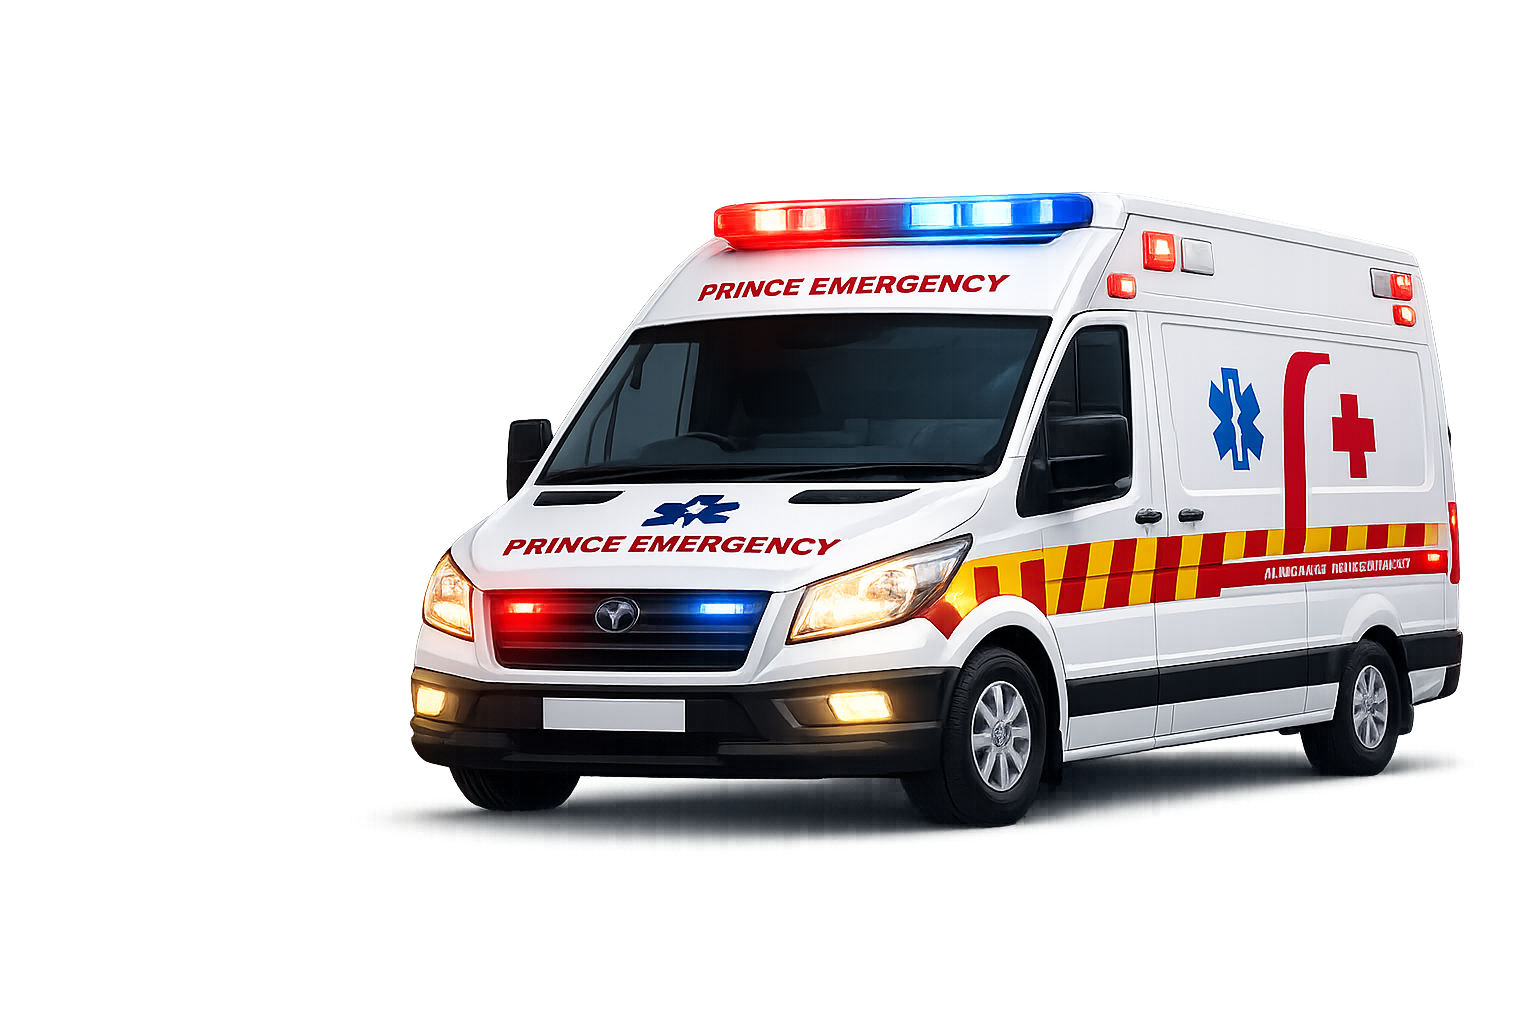
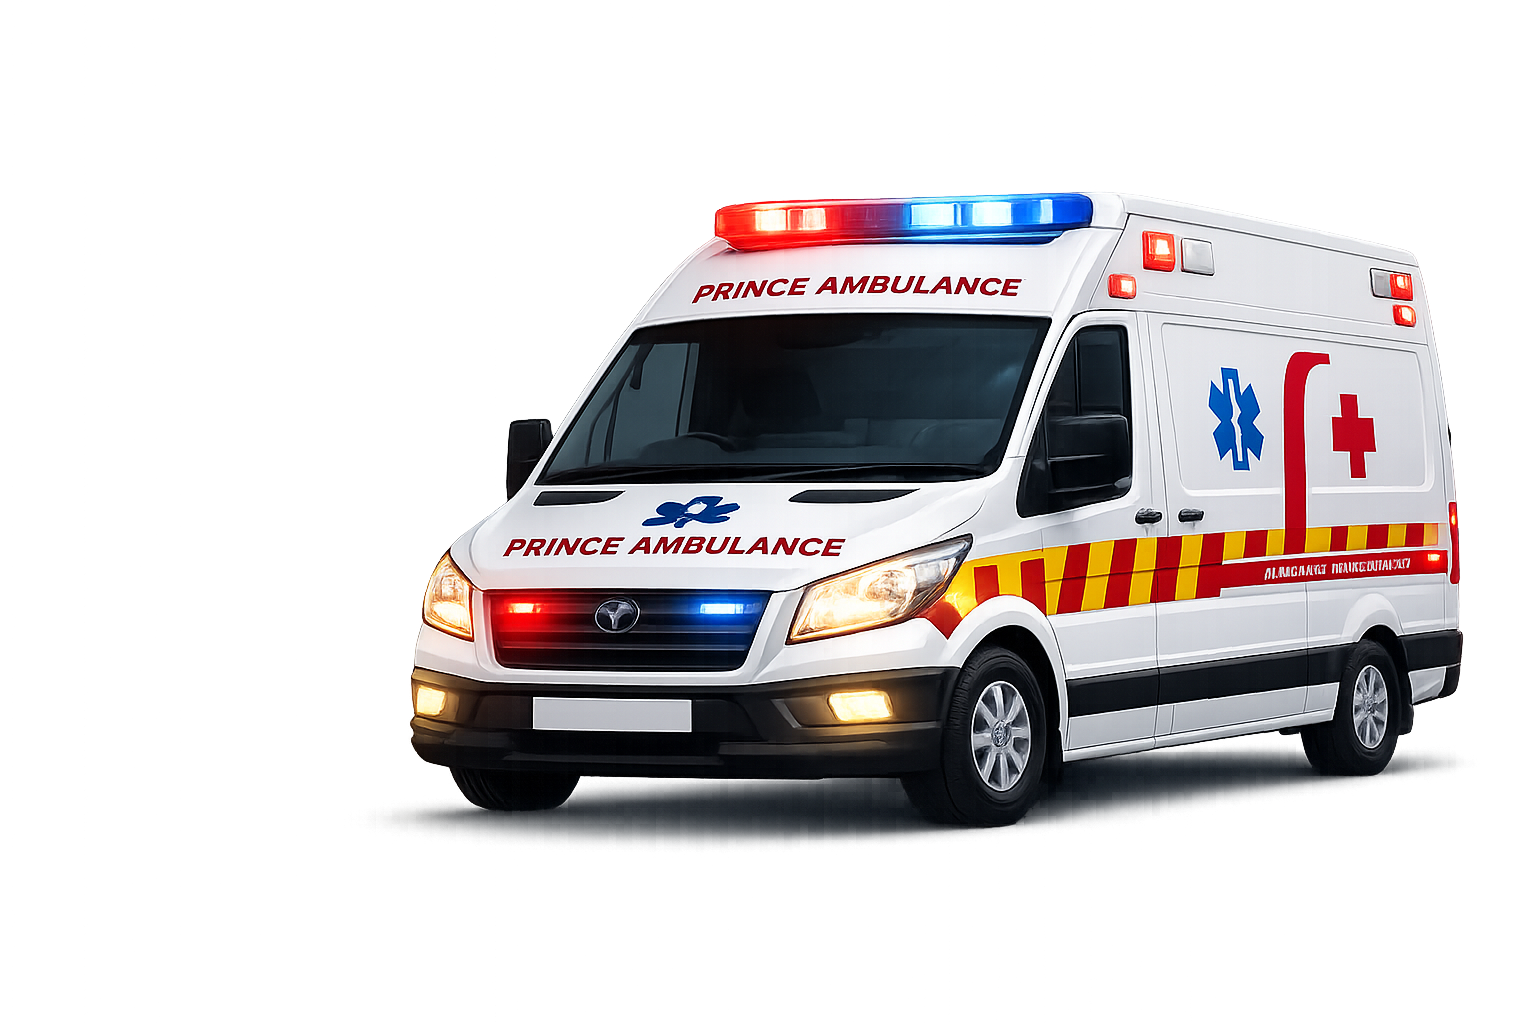
Some Changes

diff --git a/src/components/CinematicHero.tsx b/src/components/CinematicHero.tsx
@@ -14,11 +14,11 @@ export default function CinematicHero() {
       </div>
 
       <div className="w-full max-w-[1600px] mx-auto px-6 sm:px-8 lg:px-12 relative z-10 flex flex-col lg:flex-row items-center justify-between gap-12 lg:gap-8 mt-10 lg:mt-0">
-        
+
         {/* Left Side: Typography */}
         <div className="w-full lg:w-[45%] flex flex-col z-20">
-          
-          <motion.div 
+
+          <motion.div
             initial={{ opacity: 0, y: 20 }}
             animate={{ opacity: 1, y: 0 }}
             transition={{ duration: 0.6, ease: [0.16, 1, 0.3, 1] }}
@@ -26,33 +26,33 @@ export default function CinematicHero() {
           >
             <div className="w-12 h-1 bg-primary" />
             <span className="font-inter font-bold text-xs sm:text-sm tracking-[0.2em] uppercase text-gray-500">
-              PRINCE EMERGENCY CARE
+              PRINCE AMBULANCE
             </span>
           </motion.div>
 
-          <motion.h1 
+          <motion.h1
             initial={{ opacity: 0 }}
             animate={{ opacity: 1 }}
             transition={{ duration: 1, delay: 0.2 }}
             className="font-poppins font-black text-5xl sm:text-7xl lg:text-[6.5rem] xl:text-[7.5rem] leading-[0.85] tracking-tight uppercase text-gray-900 mb-8"
           >
-            WE<br/>
-            SAVE<br/>
+            WE<br />
+            SAVE<br />
             <span className="text-primary mix-blend-multiply">LIVES.</span>
           </motion.h1>
 
-          <motion.p 
+          <motion.p
             initial={{ opacity: 0 }}
             animate={{ opacity: 1 }}
             transition={{ duration: 1, delay: 0.4 }}
             className="font-inter font-medium text-sm sm:text-base md:text-lg text-gray-500 max-w-lg mb-10 leading-relaxed border-l-4 border-gray-200 pl-4 sm:pl-6"
           >
-            Fast, reliable, and compassionate emergency medical transport 24/7. 
-            From critical ICU situations to non-emergency transfers, our highly 
+            Fast, reliable, and compassionate emergency medical transport 24/7.
+            From critical ICU situations to non-emergency transfers, our highly
             trained team ensures safe and timely care.
           </motion.p>
 
-          <motion.div 
+          <motion.div
             initial={{ opacity: 0, y: 20 }}
             animate={{ opacity: 1, y: 0 }}
             transition={{ duration: 0.6, delay: 0.6 }}
@@ -79,12 +79,12 @@ export default function CinematicHero() {
             className="relative w-full flex justify-center lg:justify-end"
           >
             {/* The Image */}
-            <img 
-              src="/images/ambulance.png" 
-              alt="Prince Ambulance" 
+            <img
+              src="/images/ambulance.png"
+              alt="Prince Ambulance"
               className="w-full max-w-[600px] lg:max-w-[700px] xl:max-w-[850px] h-auto object-contain relative z-20 drop-shadow-[0_20px_40px_rgba(0,0,0,0.2)]"
             />
-            
+
             {/* 24/7 Brutalist Badge */}
             <motion.div
               initial={{ scale: 0 }}
